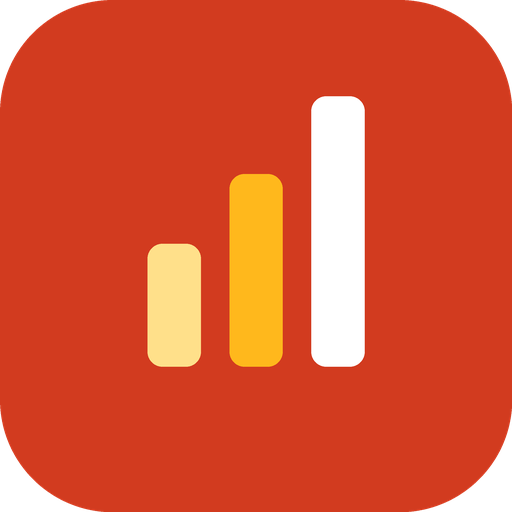
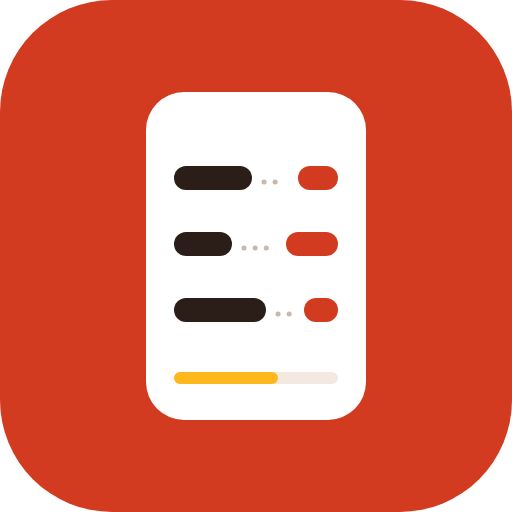
v1.10 앱 아이콘 교체, 시작 애니메이션 매번, 글자 크기·줄바꿈 다듬기 (영석님 요청)
- 앱 아이콘: 막대 3개 → 시작 애니메이션의 레시피 카드(이름 막대·점선·빨간 분량 칩)+노른자색 재생 막대, 고추장 빨강 배경.
  192·512·마스크(안전 영역 안) 세 가지, 주소에 ?v=2를 붙여 휴대폰이 예전 아이콘을 계속 쓰지 않게
- 시작 애니메이션: '6시간 안에 다시 열거나 공유로 열면 생략'(v1.3.2) → 앱을 새로 켤 때마다(공유·알림 포함).
  구글 로그인에서 돌아올 때만 생략. 분석은 애니메이션 뒤에서 그대로 시작
- 디자인: 기본 글자 17→16px, 레시피 제목 2.3→1.8rem, 섹션 제목·분량·단계 글 등 축소(요리 모드·큰 타이머는 유지)
- 줄바꿈: 본문 text-wrap:pretty(마지막 줄 한 단어 방지), 짧은 글·안내는 balance(줄 길이 고르게),
  단계 문장의 '재료 이름+분량+조사'를 한 덩어리로 줄바꿈('마요네즈 / 3숟갈' 대신 '/ 마요네즈 3숟갈을')
- 테스트: splash 추가(켤 때마다·공유·알림·로그인 복귀 생략·아이콘 주소), 다른 테스트는 rc_splash_off로 애니메이션 끔 (16/16 통과)

Claude-Session: https://claude.ai/code/session_01HwwR7bANurw7jwFEFd9au9

Changed region(s): [[0.2812, 0.1562, 0.7188, 0.8438]]

diff --git a/index.html b/index.html
@@ -4,12 +4,12 @@
 <meta charset="utf-8">
 <meta name="viewport" content="width=device-width, initial-scale=1, viewport-fit=cover">
 <meta name="theme-color" content="#D23B1F">
-<script>(function(){try{var l=+localStorage.getItem('rc_splash_at')||0;if(Date.now()-l<6*3600e3||/[?&](share|code)=/.test(location.search))document.documentElement.classList.add('nosplash');}catch(e){}})();</script>
+<script>/* 시작 애니메이션: 앱을 새로 켤 때마다(공유·알림으로 열 때 포함). 구글 로그인에서 돌아올 때(?code=)만 생략. rc_splash_off는 자동 테스트 전용 */(function(){try{if(/[?&]code=/.test(location.search)||localStorage.getItem('rc_splash_off')==='1')document.documentElement.classList.add('nosplash');}catch(e){}})();</script>
 <script>(function(){try{var t=JSON.parse(localStorage.getItem('rc_theme')||'"base"');if(t==='auto')t=matchMedia('(prefers-color-scheme: dark)').matches?'dark':'base';if(t!=='base')document.documentElement.dataset.theme=t;}catch(e){}})();</script>
 <title>릴쿡 — 릴스를 레시피로</title>
 <link rel="manifest" href="/manifest.webmanifest">
-<link rel="icon" href="/icons/icon-192.png">
-<link rel="apple-touch-icon" href="/icons/icon-192.png">
+<link rel="icon" href="/icons/icon-192.png?v=2">
+<link rel="apple-touch-icon" href="/icons/icon-192.png?v=2">
 <script src="https://cdn.jsdelivr.net/npm/@supabase/supabase-js@2/dist/umd/supabase.js"></script>
 <link rel="preconnect" href="https://fonts.googleapis.com">
 <link href="https://fonts.googleapis.com/css2?family=Black+Han+Sans&family=IBM+Plex+Sans+KR:wght@400;500;700&display=swap" rel="stylesheet">
@@ -22,9 +22,9 @@
   --pri:#D23B1F; --pri-d:#AF2C14; --pri-t:#FDEBE5; --hot:#D23B1F; --hot-t:#FDEBE5;
   --yolk:#FFB81C; --yolk-d:#A86F00; --yolk-t:#FFF1CC; --herb:#3E8B3A; --herb-t:#E7F3E2;
   --f1:#FFB81C; --f2:#F57C1F; --f3:#D23B1F;
-  --fs:17px; --disp:"Black Han Sans", "IBM Plex Sans KR", sans-serif;
+  --fs:16px; --disp:"Black Han Sans", "IBM Plex Sans KR", sans-serif;
 }
-html.fs-l{--fs:19px} html.fs-xl{--fs:21px}
+html.fs-l{--fs:18px} html.fs-xl{--fs:20px}
 *{box-sizing:border-box;margin:0;padding:0}
 html{font-size:var(--fs)}
 html,body{background:var(--bg);color:var(--ink);font-family:"IBM Plex Sans KR",system-ui,sans-serif;-webkit-tap-highlight-color:transparent}
@@ -79,7 +79,7 @@ nav.tabs button.on{color:var(--pri);font-weight:700}
 nav.tabs button.on::before{content:"";position:absolute;top:0;left:32%;right:32%;height:3px;background:var(--pri);border-radius:0 0 3px 3px}
 
 /* 글자 */
-h2{font-family:var(--disp);font-weight:400;font-size:1.75rem;line-height:1.25;margin:26px 0 8px;letter-spacing:-.01em}
+h2{font-family:var(--disp);font-weight:400;font-size:1.45rem;line-height:1.25;margin:26px 0 8px;letter-spacing:-.01em}
 .muted{color:var(--sub);font-size:.92rem}
 .lead{font-size:1rem;color:var(--ink2)}
 
@@ -141,7 +141,7 @@ details>summary::-webkit-details-marker{display:none}
 .prog .gauge i:nth-child(2){animation-delay:.18s}.prog .gauge i:nth-child(3){animation-delay:.36s}
 @keyframes fire{0%,100%{background:var(--line)}35%,65%{background:var(--c)}}
 @media (prefers-reduced-motion: reduce){.prog .gauge i{animation:none;background:var(--c)}}
-.prog-title{font-family:var(--disp);font-size:1.45rem;line-height:1.35;margin-top:18px}
+.prog-title{font-family:var(--disp);font-size:1.25rem;line-height:1.35;margin-top:18px}
 .prog-time{color:var(--sub);font-size:.9rem;margin-top:4px}
 .checks{margin-top:20px;border-top:1px solid var(--line)}
 .checks div{display:flex;gap:10px;align-items:center;padding:10px 0;border-bottom:1px solid var(--line2);font-size:.95rem}
@@ -150,7 +150,7 @@ details>summary::-webkit-details-marker{display:none}
 
 /* 레시피 머리 */
 .back{display:inline-flex;align-items:center;gap:4px;margin-top:14px;color:var(--ink2);font-size:.92rem;padding:6px 0}
-.rhead h1{font-family:var(--disp);font-weight:400;font-size:2.3rem;line-height:1.18;letter-spacing:-.02em;margin-top:10px}
+.rhead h1{font-family:var(--disp);font-weight:400;font-size:1.8rem;line-height:1.18;letter-spacing:-.02em;margin-top:10px}
 .rhead .sum{color:var(--ink2);margin-top:8px}
 .meta{display:flex;gap:14px;flex-wrap:wrap;margin-top:12px;font-size:.88rem;color:var(--ink2);align-items:center}
 .meta span{display:inline-flex;align-items:center;gap:5px}
@@ -165,7 +165,7 @@ details>summary::-webkit-details-marker{display:none}
 .serv .lbl small{display:block;font-weight:400;color:var(--sub);font-size:.8rem}
 .serv .ctl{display:flex;align-items:center;border:1.5px solid var(--ink);border-radius:10px;overflow:hidden}
 .serv .ctl button{width:46px;height:44px;font-size:1.3rem;font-weight:700}
-.serv .ctl b{font-family:var(--disp);font-weight:400;font-size:1.4rem;min-width:62px;text-align:center;border-left:1.5px solid var(--ink);border-right:1.5px solid var(--ink);line-height:44px}
+.serv .ctl b{font-family:var(--disp);font-weight:400;font-size:1.25rem;min-width:62px;text-align:center;border-left:1.5px solid var(--ink);border-right:1.5px solid var(--ink);line-height:44px}
 .seg{display:flex;gap:4px;margin:22px -20px 0;padding:0 20px;position:sticky;top:57px;z-index:10;background:var(--bg);border-bottom:1.5px solid var(--line)}
 .seg button{padding:12px 10px 10px;font-size:1rem;color:var(--sub);border-bottom:3px solid transparent;margin-bottom:-1.5px}
 .seg button.on{color:var(--ink);font-weight:700;border-color:var(--ink)}
@@ -177,18 +177,18 @@ details>summary::-webkit-details-marker{display:none}
 .grp{font-weight:700;font-size:.9rem;color:var(--pri);margin:26px 0 2px}
 .ing{padding:11px 0;border-bottom:1px solid var(--line2)}
 .ing .ln{display:flex;align-items:baseline;gap:8px}
-.ing .n{font-size:1.06rem;font-weight:500}
+.ing .n{font-size:1rem;font-weight:500}
 .ing .dots{flex:1;border-bottom:2px dotted #D7C4B3;transform:translateY(-.3em);min-width:20px}
-.ing .big{font-family:var(--disp);font-size:1.3rem;white-space:nowrap}
+.ing .big{font-family:var(--disp);font-size:1.1rem;white-space:nowrap}
 .ing .sub{display:flex;flex-wrap:wrap;gap:4px 12px;font-size:.8rem;color:var(--sub);margin-top:2px}
 .ing .prep{color:var(--ink2)}
 .est{color:var(--yolk-d);font-weight:700}
 .ratio{background:var(--yolk);color:var(--ink);border-radius:12px;padding:18px 18px 16px;margin-top:18px}
 .ratio .rv{display:flex;align-items:flex-end;gap:6px;flex-wrap:wrap}
 .ratio .it{display:flex;flex-direction:column;align-items:center;min-width:46px}
-.ratio .it b{font-family:var(--disp);font-weight:400;font-size:2.4rem;line-height:1}
+.ratio .it b{font-family:var(--disp);font-weight:400;font-size:2rem;line-height:1}
 .ratio .it span{font-size:.78rem;opacity:.85;margin-top:4px}
-.ratio .co{font-family:var(--disp);font-size:1.8rem;opacity:.35;padding-bottom:20px}
+.ratio .co{font-family:var(--disp);font-size:1.5rem;opacity:.35;padding-bottom:20px}
 .ratio p{font-size:.84rem;margin-top:12px;border-top:1.5px dashed rgba(43,30,24,.3);padding-top:10px}
 .notes{margin-top:26px}
 .notes h4{font-size:.92rem;margin-bottom:6px}
@@ -196,8 +196,8 @@ details>summary::-webkit-details-marker{display:none}
 
 /* 조리 단계 */
 .stepc{display:grid;grid-template-columns:44px 1fr;gap:4px 12px;padding:22px 0;border-bottom:1px solid var(--line)}
-.no{font-family:var(--disp);font-size:2rem;line-height:1;color:var(--pri)}
-.stx{font-size:1.1rem;line-height:1.7}
+.no{font-family:var(--disp);font-size:1.6rem;line-height:1;color:var(--pri)}
+.stx{font-size:1.02rem;line-height:1.7}
 .stx b{font-weight:700;background:linear-gradient(transparent 58%, #FFE29A 58%)}
 .cue,.tip,.mis{margin-top:10px;font-size:.92rem;line-height:1.55;display:grid;grid-template-columns:auto 1fr;gap:8px}
 .cue::before,.tip::before,.mis::before{font-weight:700;font-size:.8rem;padding-top:1px;white-space:nowrap}
@@ -216,7 +216,7 @@ details>summary::-webkit-details-marker{display:none}
 
 /* 영양 */
 .kcal{display:flex;align-items:baseline;gap:8px;margin-top:22px}
-.kcal b{font-family:var(--disp);font-weight:400;font-size:3.2rem;line-height:1}
+.kcal b{font-family:var(--disp);font-weight:400;font-size:2.6rem;line-height:1}
 .kcal span{color:var(--sub)}
 .nut{margin-top:16px;border-top:1.5px solid var(--ink)}
 .nut .k{display:grid;grid-template-columns:5.5em 1fr 4.5em;align-items:center;gap:12px;padding:12px 0;border-bottom:1px solid var(--line2);font-size:.95rem}
@@ -254,7 +254,7 @@ body.detail nav.tabs{display:none}
 .tile .del{position:absolute;top:7px;right:7px;width:36px;height:36px;border-radius:50%;background:rgba(43,30,24,.55);color:#fff;display:flex;align-items:center;justify-content:center}
 .tile .del .ic{width:18px;height:18px}
 .recent{margin-top:30px}
-.recent h3{font-family:var(--disp);font-weight:400;font-size:1.3rem}
+.recent h3{font-family:var(--disp);font-weight:400;font-size:1.15rem}
 .strip{display:flex;gap:10px;overflow-x:auto;margin:10px -20px 0;padding:0 20px 4px;scrollbar-width:none}
 .strip::-webkit-scrollbar{display:none}
 .strip .tile{flex:0 0 118px}
@@ -265,12 +265,12 @@ body.detail nav.tabs{display:none}
 .rcard .pic{width:64px;flex-shrink:0;border-radius:8px}
 
 .empty{padding:44px 0;color:var(--ink2)}
-.empty b{display:block;font-family:var(--disp);font-weight:400;font-size:1.35rem;color:var(--ink);margin-bottom:6px}
+.empty b{display:block;font-family:var(--disp);font-weight:400;font-size:1.15rem;color:var(--ink);margin-bottom:6px}
 
 /* 시트 · 요리 모드 */
 .modal{position:fixed;inset:0;z-index:50;background:rgba(43,30,24,.45);display:flex;align-items:flex-end;justify-content:center}
 .sheet{background:var(--bg);width:100%;max-width:600px;max-height:92vh;overflow:auto;border-radius:18px 18px 0 0;padding:22px 20px calc(26px + env(safe-area-inset-bottom))}
-.sheet h3{font-family:var(--disp);font-weight:400;font-size:1.5rem;line-height:1.3}
+.sheet h3{font-family:var(--disp);font-weight:400;font-size:1.25rem;line-height:1.3}
 .sheet .x{padding:6px;color:var(--ink2)}
 .opt{display:flex;margin-top:8px;border:1.5px solid var(--ink);border-radius:10px;overflow:hidden}
 .opt button{flex:1;min-height:44px;font-size:.92rem}
@@ -312,7 +312,7 @@ body.detail nav.tabs{display:none}
 .post .au{display:flex;align-items:center;gap:8px;font-size:.88rem;color:var(--sub)}
 .post .au b{color:var(--ink)}
 .post .ph{width:100%;aspect-ratio:1/1;object-fit:cover;display:block;border-radius:8px;margin-top:12px;background:var(--line2)}
-.post .tt{font-family:var(--disp);font-weight:400;font-size:1.35rem;line-height:1.3;margin-top:12px}
+.post .tt{font-family:var(--disp);font-weight:400;font-size:1.15rem;line-height:1.3;margin-top:12px}
 .post .bd{padding:0}
 .post .tx{font-size:.98rem;margin-top:6px;white-space:pre-wrap;color:var(--ink2)}
 .post .acts{display:flex;gap:8px;margin-top:14px;align-items:center}
@@ -410,7 +410,7 @@ html.nosplash #splash{display:none}
 .pl-handle{display:block;width:100%;height:24px}
 .pl-handle i{display:block;width:40px;height:4px;border-radius:2px;background:rgba(255,255,255,.45);margin:6px auto 0}
 .pl-sn{display:flex;align-items:center;gap:10px}
-.pl-sn .disp{font-size:1.9rem;line-height:1;color:var(--yolk)}
+.pl-sn .disp{font-size:1.6rem;line-height:1;color:var(--yolk)}
 .pl-sn .heat{margin:0}
 .pl-soon{font-size:.78rem;font-weight:700;color:#1E1512;background:var(--yolk);padding:2px 8px;border-radius:10px}
 .pl-st{font-size:1.18rem;line-height:1.55;margin-top:6px}
@@ -449,7 +449,7 @@ html.nosplash #splash{display:none}
 .sumtbl th,.sumtbl td{border:1px solid var(--line);padding:5px 7px;text-align:left;vertical-align:top}
 .sumtbl th{background:var(--line2);font-weight:700}
 .doc{font-size:.9rem;line-height:1.7}
-.doc h1{font-family:var(--disp);font-weight:400;font-size:1.5rem;margin:6px 0 2px}
+.doc h1{font-family:var(--disp);font-weight:400;font-size:1.3rem;margin:6px 0 2px}
 .doc h2{font-family:inherit;font-size:1rem;font-weight:700;margin:22px 0 6px}
 .doc ol,.doc ul{padding-left:1.3em}.doc li{margin:3px 0}
 .doc table{border-collapse:collapse;width:100%;font-size:.78rem;margin:8px 0;display:block;overflow-x:auto}
@@ -476,6 +476,12 @@ input[type=number]{border:1.5px solid var(--line);border-radius:10px;padding:13p
 .evwhy{display:flex;flex-wrap:wrap;gap:6px;margin-top:10px}.evwhy button{border:1.5px solid var(--line);border-radius:999px;padding:6px 12px;font-size:.84rem}.evwhy button.on{background:var(--hot);border-color:var(--hot);color:#fff;font-weight:700}
 .evhow{margin-top:8px;padding-left:1.2em;font-size:.86rem}#evAgain{display:inline-flex;gap:6px;align-items:center}.evb{gap:6px;margin-top:10px}.evb .mk{flex:1;min-height:42px;border:1.5px solid var(--line);border-radius:10px;font-weight:700}
 .evb .mk.on{background:var(--herb);border-color:var(--herb);color:#fff}.evb .mk.ng.on{background:var(--hot);border-color:var(--hot)}.evi input{margin-top:8px}
+
+/* 줄바꿈 다듬기 (v1.10): 한 줄을 꽉 채우고 다음 줄에 조금만 남는 모양을 피한다 */
+body{text-wrap:pretty}
+p,h1,h2,h3,.prog-title,.sum,.lead,.note,.err,.toast,.empty,.tips,.banner,.install,.login-card,.ailabel span,.serv .lbl small,.cue span,.tip span,.mis span,.muted,label.fl,.tile .t,.post .tt{text-wrap:balance}
+/* 단계 문장 속 "재료 이름 + 분량 + 조사"는 한 덩어리로 줄을 바꾼다 ("마요네즈 / 3숟갈" 대신 "/ 마요네즈 3숟갈을") */
+.tk{display:inline-block;max-width:100%}
 </style>
 </head>
 <body>
@@ -502,7 +508,7 @@ input[type=number]{border:1.5px solid var(--line);border-radius:10px;padding:13p
 <div id="layer"></div>
 
 <script>
-const VERSION='v1.9.2';
+const VERSION='v1.10';
 const SV=(d)=>`<svg class="ic" viewBox="0 0 24 24" fill="none" stroke="currentColor" stroke-width="1.8" stroke-linecap="round" stroke-linejoin="round" aria-hidden="true">${d}</svg>`;
 const IC={
   back:SV('<path d="M15 5l-7 7 7 7"/>'), down:SV('<path d="M6 9l6 6 6-6"/>'), x:SV('<path d="M6 6l12 12M18 6 6 18"/>'),
@@ -571,10 +577,9 @@ function openSaved(id){ const d=S.my.find(x=>x.id===id); if(!d) return; S.replac
 const tileHTML=(d,del=true)=>{ const r=d.recipe||{}; return `<div class="tile" data-open="${esc(d.id)}" role="button" tabindex="0" aria-label="${esc(r.title)}">${coverHTML(r)}
   <div class="t">${esc(r.title)}</div><div class="s"><span>${esc(r.total_min||'?')}분</span><span>${esc(r.servings)}인분</span></div>
   ${del?`<button class="del" data-del="${esc(d.id)}" aria-label="삭제">${IC.trash}</button>`:''}</div>`; };
-// 시작 애니메이션: 릴스 → 레시피 카드 → 릴쿡, 약 2.7초 뒤 사라짐 (공유로 열렸으면 짧게, 누르면 바로)
+// 시작 애니메이션: 릴스 → 레시피 카드 → 릴쿡, 약 2.7초 뒤 사라짐 (누르면 바로). 분석은 뒤에서 그대로 시작된다
 (function(){ const sp=document.getElementById('splash'); if(!sp) return;
   if (document.documentElement.classList.contains('nosplash')){ sp.remove(); return; }
-  try{ localStorage.setItem('rc_splash_at', String(Date.now())); }catch(e){}
   const end=()=>{ sp.classList.add('out'); setTimeout(()=>sp.remove(),400); };
   sp.onclick=end; setTimeout(end, 2750); })();
 /* ================= 저장소 (계정 연동 전까지는 이 폰에만 저장) ================= */
@@ -1135,7 +1140,9 @@ function fillStep(text, r, f, html){
       const dup=new RegExp(`^(${PARTICLE})?\\s*(?:\\d+(?:[./]\\d+)?|[½¼¾⅓⅔]|반|한|두|세|네)\\s*(?:${[...u, AMT_UNITS].join('|')})(?=$|[^가-힣]|${PARTICLE})`, 'i');
       next=next.replace(dup, '$1'); }
     next=next.replace(new RegExp(`^(${PARTICLE})(?=$|[^가-힣])`), m=>josa(shown,m));
-    out+=(html?`<b>${esc(shown)}</b>`:shown)+e(next);
+    // 화면에서는 "재료 이름 + 분량"과 바로 붙은 조사를 한 덩어리로 묶어 중간에서 줄이 바뀌지 않게 한다
+    const glue=html?(next.match(/^[^\s\[]{1,4}/)||[''])[0]:'';
+    out+=html?`<span class="tk"><b>${esc(shown)}</b>${esc(glue)}</span>${esc(next.slice(glue.length))}`:shown+next;
   }
   return out;
 }

diff --git a/sw.js b/sw.js
@@ -1,6 +1,6 @@
 // 릴쿡 서비스 워커: 오프라인 캐시 + 인스타 "공유" 받기 + 분석 완료 알림
-const VERSION = 'reelcook-v192';
-const SHELL = ['/', '/index.html', '/manifest.webmanifest', '/legal.html', '/icons/icon-192.png', '/icons/icon-512.png'];
+const VERSION = 'reelcook-v110';
+const SHELL = ['/', '/index.html', '/manifest.webmanifest', '/legal.html', '/icons/icon-192.png?v=2', '/icons/icon-512.png?v=2'];
 const INBOX = 'share-inbox';
 
 self.addEventListener('install', e => {
@@ -61,7 +61,7 @@ self.addEventListener('push', e => {
     const wins = await self.clients.matchAll({ type: 'window', includeUncontrolled: true });
     if (!m.test && wins.some(w => w.visibilityState === 'visible')) return;   // 알림 시험은 앱을 보고 있어도 보여 준다
     await self.registration.showNotification(m.title || '레시피가 준비됐어요', {
-      body: m.body || '눌러서 바로 보기', tag: m.tag || 'reelcook', icon: '/icons/icon-192.png', badge: '/icons/icon-192.png',
+      body: m.body || '눌러서 바로 보기', tag: m.tag || 'reelcook', icon: '/icons/icon-192.png?v=2', badge: '/icons/icon-192.png?v=2',
       data: { url: m.url || '/' },
     });
   })());

diff --git a/tests/splash.py b/tests/splash.py
@@ -1,0 +1,21 @@
+# 시작 애니메이션(v1.10): 앱을 새로 켤 때마다 나온다. 다시 켜도, 인스타 공유로 열어도 나오고, 구글 로그인에서 돌아올 때만 생략
+from playwright.sync_api import sync_playwright
+from common import TV, L
+B='http://localhost:8788'
+errs=[]
+with sync_playwright() as p:
+    b=p.chromium.launch(**L()); ctx=b.new_context(viewport={'width':390,'height':844})
+    ctx.add_init_script("localStorage.setItem('rc_consent',JSON.stringify({version:'"+TV+"'}));localStorage.setItem('rc_pass',JSON.stringify('1234'))")
+    pg=ctx.new_page(); pg.on('pageerror',lambda e:errs.append(str(e)))
+    def shown(): pg.wait_for_timeout(300); return pg.is_visible('#splash')
+    pg.goto(B+'/'); a=shown(); print('처음 켤 때', a); assert a, 'first launch'
+    pg.wait_for_selector('#splash', state='detached', timeout=6000)
+    pg.goto(B+'/'); a=shown(); print('바로 다시 켤 때', a); assert a, 'relaunch within 6h should show now'
+    pg.goto(B+'/?share=1'); a=shown(); print('공유로 열 때', a); assert a, 'share launch'
+    pg.goto(B+'/?job=1'); a=shown(); print('알림으로 열 때', a); assert a, 'notification launch'
+    pg.goto(B+'/?code=abc'); a=shown(); print('로그인에서 돌아올 때', a); assert not a, 'login return should skip'
+    # 아이콘: 새 아이콘 주소(?v=2)가 매니페스트·페이지에 있고 실제로 받아진다
+    import json, urllib.request
+    m=json.loads(urllib.request.urlopen(B+'/manifest.webmanifest').read()); srcs=[i['src'] for i in m['icons']]; print('아이콘', srcs)
+    assert all(s.endswith('?v=2') for s in srcs) and all(urllib.request.urlopen(B+s).status==200 for s in srcs), 'icons'
+print('errors', errs)

diff --git a/tests/back_resume.py b/tests/back_resume.py
@@ -15,7 +15,8 @@ with sync_playwright() as p:
     pg.evaluate("""()=>{const f=document.createElement('form');f.method='POST';f.action='/share-target';f.enctype='multipart/form-data';
  const t=document.createElement('input');t.name='text';t.value='https://www.instagram.com/reel/BACKTEST1/';f.appendChild(t);document.body.appendChild(f);f.submit();}""")
     pg.wait_for_selector('.rhead h1', timeout=30000)
-    print('share launch splash shown', pg.locator('#splash').count())
+    print('share launch splash shown', pg.locator('#splash').count())   # v1.10: 공유로 열어도 매번 보인다
+    pg.wait_for_selector('#splash', state='detached', timeout=6000)
     back=lambda: (pg.evaluate("history.back()"), pg.wait_for_timeout(350))
     # 요리 모드 → 뒤로 → 레시피
     pg.click('#cookBtn'); pg.wait_for_timeout(300); back()
@@ -27,6 +28,7 @@ with sync_playwright() as p:
     pg.click('#sp'); pg.click('[data-rt=step]'); pg.wait_for_timeout(200)
     pg.evaluate("document.dispatchEvent(new Event('visibilitychange'))") ; pg.evaluate("saveResume()")
     pg.goto(B+'/'); pg.wait_for_timeout(1200)
+    pg.wait_for_selector('#splash', state='detached', timeout=6000)
     print('resumed recipe', pg.evaluate("S.recipe&&S.recipe.title"), 'servings', pg.evaluate("S.servings"), 'rtab', pg.evaluate("S.rtab"), 'splash', pg.locator('#splash').count())
     # 레시피 → 뒤로 → 첫 화면
     back(); print('back to root: recipe', pg.evaluate("!!S.recipe"), 'url', pg.url)

diff --git a/tests/video_guide.py b/tests/video_guide.py
@@ -6,7 +6,7 @@ urllib.request.urlopen(B+'/__set?mode=caption&script=cover&resetUsage=1').read()
 FAKE=open('fake-supabase2.js').read()
 with sync_playwright() as p:
     b=p.chromium.launch(**L(), args=['--autoplay-policy=no-user-gesture-required']); ctx=b.new_context(viewport={'width':390,'height':844}, device_scale_factor=2)
-    ctx.add_init_script("localStorage.setItem('rc_consent',JSON.stringify({version:'"+TV+"',at:'2026-11-12T00:00:00Z'}));localStorage.setItem('rc_pass',JSON.stringify('1234'));localStorage.setItem('rc_splash_at',String(Date.now()))")
+    ctx.add_init_script("localStorage.setItem('rc_consent',JSON.stringify({version:'"+TV+"',at:'2026-11-12T00:00:00Z'}));localStorage.setItem('rc_pass',JSON.stringify('1234'));localStorage.setItem('rc_splash_off','1')")
     ctx.route('**/supabase-js@2/**', lambda r: r.fulfill(status=200, content_type='application/javascript', body=FAKE))
     pg=ctx.new_page(); errs=[]; pg.on('pageerror',lambda e:errs.append(str(e)))
     pg.goto(B+'/'); pg.wait_for_timeout(500)

diff --git a/tests/push.py b/tests/push.py
@@ -22,7 +22,7 @@ errs=[]
 with sync_playwright() as p:
     b=p.chromium.launch(**L()); ctx=b.new_context(viewport={'width':390,'height':844})
     ctx.grant_permissions(['notifications','clipboard-read','clipboard-write'], origin=B)
-    ctx.add_init_script("window.__testPushSub="+SUB+";if(!localStorage.getItem('rc_consent')){localStorage.setItem('rc_consent',JSON.stringify({version:'"+TV+"',at:'x'}));localStorage.setItem('rc_pass',JSON.stringify('1234'))};localStorage.setItem('rc_splash_at',String(Date.now()))")
+    ctx.add_init_script("window.__testPushSub="+SUB+";if(!localStorage.getItem('rc_consent')){localStorage.setItem('rc_consent',JSON.stringify({version:'"+TV+"',at:'x'}));localStorage.setItem('rc_pass',JSON.stringify('1234'))};localStorage.setItem('rc_splash_off','1')")
     ctx.route('**/supabase-js@2/**', lambda r: r.fulfill(status=200, content_type='application/javascript', body=FAKE))
     pg=ctx.new_page(); pg.on('pageerror',lambda e:errs.append(str(e)))
     pg.goto(B+'/'); pg.wait_for_timeout(1500)

diff --git a/tests/stage2.py b/tests/stage2.py
@@ -13,7 +13,7 @@ errs=[]
 with sync_playwright() as p:
     b=p.chromium.launch(**L()); ctx=b.new_context(viewport={'width':390,'height':844}, device_scale_factor=1)
     ctx.grant_permissions(['clipboard-read','clipboard-write'], origin=B)
-    ctx.add_init_script("if(!sessionStorage.getItem('x')){sessionStorage.setItem('x',1);localStorage.setItem('rc_consent',JSON.stringify({version:'"+TV+"',at:'2026-11-12T00:00:00Z'}));localStorage.setItem('rc_pass',JSON.stringify('1234'))}")
+    ctx.add_init_script("localStorage.setItem('rc_splash_off','1');if(!sessionStorage.getItem('x')){sessionStorage.setItem('x',1);localStorage.setItem('rc_consent',JSON.stringify({version:'"+TV+"',at:'2026-11-12T00:00:00Z'}));localStorage.setItem('rc_pass',JSON.stringify('1234'))}")
     ctx.route('**/supabase-js@2/**', lambda r: r.fulfill(status=200, content_type='application/javascript', body=FAKE))
     pg=ctx.new_page(); pg.on('pageerror',lambda e:errs.append(str(e)))
     pg.goto(B+'/'); pg.wait_for_timeout(2500)

diff --git a/tests/multi_quota_ui.py b/tests/multi_quota_ui.py
@@ -9,7 +9,7 @@ def share(pg, code):
  const t=document.createElement('input');t.name='text';t.value='https://www.instagram.com/reel/'+c+'/';f.appendChild(t);document.body.appendChild(f);f.submit();}""", code)
 with sync_playwright() as p:
     b=p.chromium.launch(**L(), ); ctx=b.new_context(viewport={'width':390,'height':844}, device_scale_factor=2)
-    ctx.add_init_script("localStorage.setItem('rc_consent',JSON.stringify({version:'"+TV+"',at:'2026-11-12T00:00:00Z'}));localStorage.setItem('rc_pass',JSON.stringify('1234'))")
+    ctx.add_init_script("localStorage.setItem('rc_splash_off','1');localStorage.setItem('rc_consent',JSON.stringify({version:'"+TV+"',at:'2026-11-12T00:00:00Z'}));localStorage.setItem('rc_pass',JSON.stringify('1234'))")
     ctx.route('**/supabase-js@2/**', lambda r: r.fulfill(status=200, content_type='application/javascript', body=FAKE))
     pg=ctx.new_page(); errs=[]; pg.on('pageerror',lambda e:errs.append(str(e)))
     pg.goto(B+'/'); pg.wait_for_timeout(3000)

diff --git a/tests/share_race.py b/tests/share_race.py
@@ -14,7 +14,7 @@ errs=[]
 with sync_playwright() as p:
     b=p.chromium.launch(**L()); ctx=b.new_context(viewport={'width':390,'height':844})
     ctx.grant_permissions(['notifications'], origin=B)
-    ctx.add_init_script("window.__testPushSub="+SUB+";if(!localStorage.getItem('rc_consent')){localStorage.setItem('rc_consent',JSON.stringify({version:'"+TV+"',at:'x'}));localStorage.setItem('rc_pass',JSON.stringify('1234'))};localStorage.setItem('rc_splash_at',String(Date.now()))")
+    ctx.add_init_script("window.__testPushSub="+SUB+";if(!localStorage.getItem('rc_consent')){localStorage.setItem('rc_consent',JSON.stringify({version:'"+TV+"',at:'x'}));localStorage.setItem('rc_pass',JSON.stringify('1234'))};localStorage.setItem('rc_splash_off','1')")
     ctx.route('**/supabase-js@2/**', lambda r: r.fulfill(status=200, content_type='application/javascript', body=FAKE))
     pg=ctx.new_page(); pg.on('pageerror',lambda e:errs.append(str(e)))
     pg.goto(B+'/'); pg.wait_for_timeout(1200)

diff --git a/tests/background.py b/tests/background.py
@@ -6,7 +6,7 @@ B='http://localhost:8788'
 def setm(q): urllib.request.urlopen(B+'/__set?'+q).read()
 def st(): return json.load(urllib.request.urlopen(B+'/__st'))
 FAKE=open('fake-supabase2.js').read()
-INIT="if(!localStorage.getItem('rc_consent')){localStorage.setItem('rc_consent',JSON.stringify({version:'"+TV+"',at:'x'}));localStorage.setItem('rc_pass',JSON.stringify('1234'))};localStorage.setItem('rc_splash_at',String(Date.now()))"
+INIT="if(!localStorage.getItem('rc_consent')){localStorage.setItem('rc_consent',JSON.stringify({version:'"+TV+"',at:'x'}));localStorage.setItem('rc_pass',JSON.stringify('1234'))};localStorage.setItem('rc_splash_off','1')"
 def share(pg, code):
     pg.evaluate("""(c)=>{const f=document.createElement('form');f.method='POST';f.action='/share-target';f.enctype='multipart/form-data';
  const t=document.createElement('input');t.name='text';t.value='https://www.instagram.com/reel/'+c+'/';f.appendChild(t);document.body.appendChild(f);f.submit();}""", code)

diff --git a/tests/guide_order.py b/tests/guide_order.py
@@ -6,7 +6,7 @@ urllib.request.urlopen(B+'/__set?mode=caption&script=jumble').read()
 FAKE=open('fake-supabase2.js').read()
 with sync_playwright() as p:
     b=p.chromium.launch(**L(), args=['--autoplay-policy=no-user-gesture-required']); ctx=b.new_context(viewport={'width':390,'height':844})
-    ctx.add_init_script("localStorage.setItem('rc_consent',JSON.stringify({version:'"+TV+"',at:'x'}));localStorage.setItem('rc_pass',JSON.stringify('1234'));localStorage.setItem('rc_splash_at',String(Date.now()))")
+    ctx.add_init_script("localStorage.setItem('rc_consent',JSON.stringify({version:'"+TV+"',at:'x'}));localStorage.setItem('rc_pass',JSON.stringify('1234'));localStorage.setItem('rc_splash_off','1')")
     ctx.route('**/supabase-js@2/**', lambda r: r.fulfill(status=200, content_type='application/javascript', body=FAKE))
     pg=ctx.new_page(); errs=[]; pg.on('pageerror',lambda e:errs.append(str(e)))
     pg.goto(B+'/'); pg.wait_for_timeout(400)

diff --git a/tests/daily_limit.py b/tests/daily_limit.py
@@ -6,7 +6,7 @@ FAKE=open('fake-supabase2.js').read()
 def setm(q): urllib.request.urlopen(B+'/__set?'+q).read()
 with sync_playwright() as p:
     b=p.chromium.launch(**L(), ); ctx=b.new_context(viewport={'width':390,'height':844}, device_scale_factor=2)
-    ctx.add_init_script("localStorage.setItem('rc_consent',JSON.stringify({version:'"+TV+"',at:'x'}));localStorage.setItem('rc_pass',JSON.stringify('1234'));localStorage.setItem('rc_splash_at',String(Date.now()))")
+    ctx.add_init_script("localStorage.setItem('rc_consent',JSON.stringify({version:'"+TV+"',at:'x'}));localStorage.setItem('rc_pass',JSON.stringify('1234'));localStorage.setItem('rc_splash_off','1')")
     ctx.route('**/supabase-js@2/**', lambda r: r.fulfill(status=200, content_type='application/javascript', body=FAKE))
     pg=ctx.new_page(); errs=[]; pg.on('pageerror',lambda e:errs.append(str(e)))
     pg.goto(B+'/'); pg.wait_for_timeout(800)
